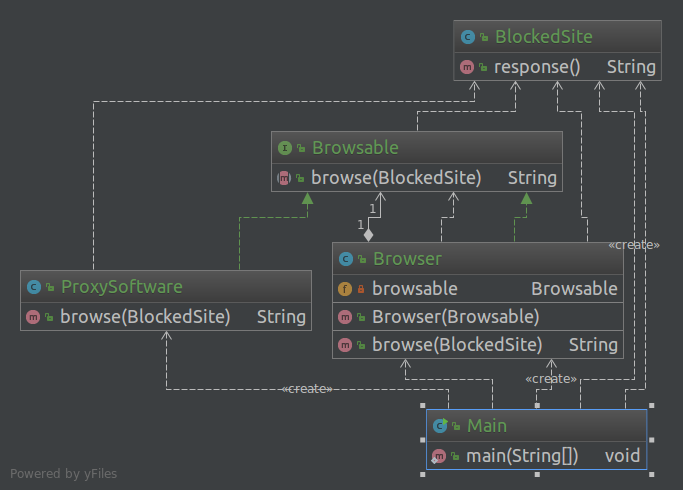
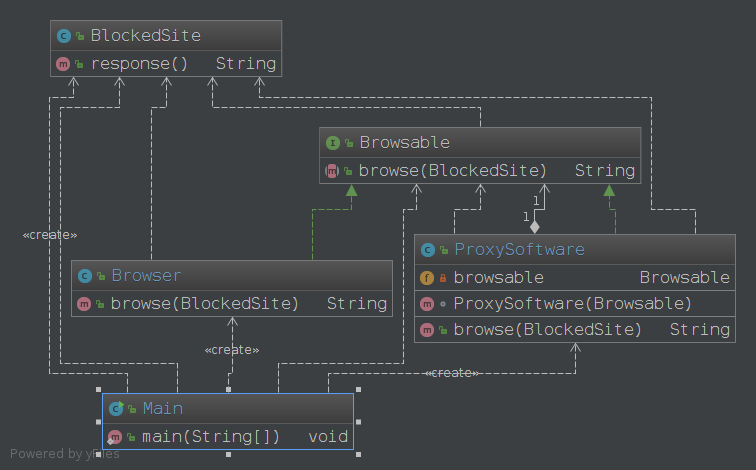
修改代理模式

diff --git a/src/main/java/priv/thinkam/dp/structural/proxy/ProxySoftware.java b/src/main/java/priv/thinkam/dp/structural/proxy/ProxySoftware.java
@@ -5,10 +5,17 @@ package priv.thinkam.dp.structural.proxy;
  * @date 2018/02/03
  */
 public class ProxySoftware implements Browsable {
+    private Browsable browsable;
 
-	@Override
-	public String browse(BlockedSite blockedSite) {
-		// can do something extra here
-		return blockedSite.response();
-	}
+    ProxySoftware(Browsable browsable) {
+        this.browsable = browsable;
+    }
+
+    @Override
+    public String browse(BlockedSite blockedSite) {
+        // can do something here
+        String response = browsable.browse(blockedSite);
+        // can do something here
+        return response;
+    }
 }

diff --git a/src/main/java/priv/thinkam/dp/structural/proxy/Main.java b/src/main/java/priv/thinkam/dp/structural/proxy/Main.java
@@ -7,9 +7,9 @@ package priv.thinkam.dp.structural.proxy;
 public class Main {
 
 	public static void main(String[] args) {
-		Browser browser = new Browser(new ProxySoftware());
+        Browsable browsable = new ProxySoftware(new Browser());
 		BlockedSite google = new BlockedSite();
-		String blockedContent = browser.browse(google);
+		String blockedContent = browsable.browse(google);
 		System.out.println(blockedContent);
 	}
 

diff --git a/src/main/java/priv/thinkam/dp/structural/proxy/Browser.java b/src/main/java/priv/thinkam/dp/structural/proxy/Browser.java
@@ -5,14 +5,9 @@ package priv.thinkam.dp.structural.proxy;
  * @date 2018/02/03
  */
 public class Browser implements Browsable {
-	private Browsable browsable;
-
-	public Browser(Browsable browsable) {
-		this.browsable = browsable;
-	}
 
 	@Override
 	public String browse(BlockedSite blockedSite) {
-		return browsable.browse(blockedSite);
+        return blockedSite.response();
 	}
 }

diff --git a/src/main/java/priv/thinkam/dp/behavioral/strategy/Sorter.java b/src/main/java/priv/thinkam/dp/behavioral/strategy/Sorter.java
@@ -1,7 +1,9 @@
 package priv.thinkam.dp.behavioral.strategy;
 
 /**
- * Created by thinkam on 1/29/18.
+ *
+ * @author thinkam
+ * @date 1/29/18
  */
 public class Sorter {
 	private BaseSortStrategy sortStrategy;

diff --git a/doc/priv/thinkam/dp/structural/proxy/README.md b/doc/priv/thinkam/dp/structural/proxy/README.md
@@ -5,8 +5,8 @@
 
 - 角色
     - Subject(定义RealSubject 和Proxy的共用接口) -- Browsable
-    - Proxy(保存一个引用使得代理可以访问实体) -- Browser
-    - RealSubject(定义Proxy所代表的实体) -- ProxySoftware
+    - Proxy(保存一个引用使得代理可以访问实体) -- ProxySoftware
+    - RealSubject(定义Proxy所代表的实体) -- Browser
 
 - 实例
     - jdk实例
@@ -15,12 +15,21 @@
     - other
         - 快捷方式
         - Internet censorship circumvention
+        - Spring AOP
 
 - 常见情景
+    - 智能指引：调用真实对象时代理处理其他事，例如事务，日志，检查权限
     - 远程代理：为一个对象在不同的地址空间提供局部代表
     - 虚代理：根据需要创建开销很大的对象
     - 保护代理：控制对原始对象的访问
-    - 智能指引：取代了简单的指针，它在访问对象时执行一些附加操作
+
+- 分类
+    - 静态代理
+        - 继承
+        - 聚合
+    - 动态代理
+        - jdk代理
+        - cglib库
 
 
 
